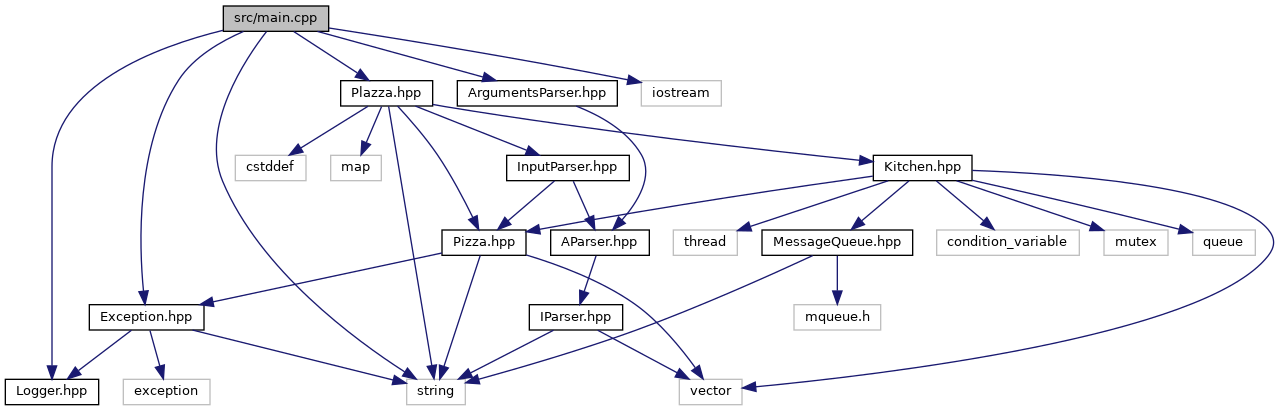
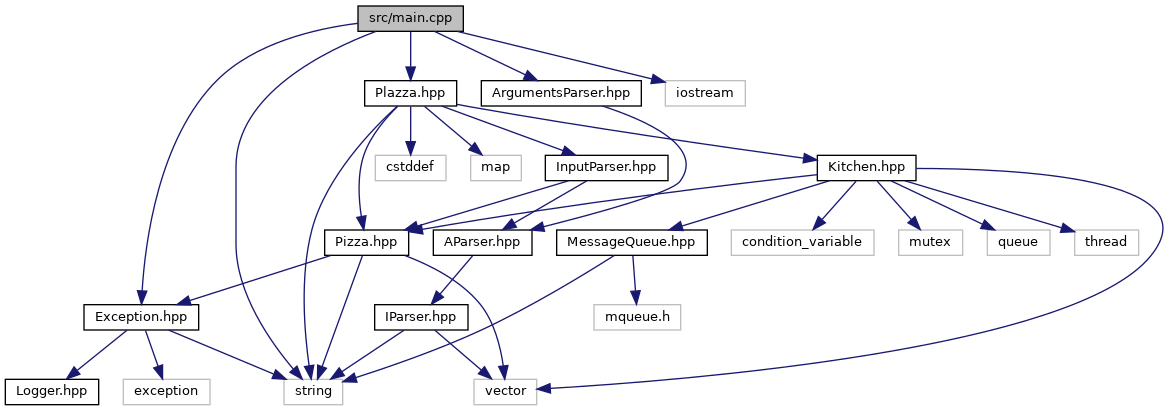
Deploying to gh-pages from @ Cavonstavant/PLAZAAAAAAAAAAAAAAAAAAAAAAA@55cd2547cdbc10f20de0c7a9fd8b12260c175556 🚀

diff --git a/main_8cpp_source.html b/main_8cpp_source.html
@@ -96,26 +96,24 @@ $(document).ready(function(){initNavTree('main_8cpp_source.html',''); initResiza
 <div class="line"><a name="l00007"></a><span class="lineno">    7</span>&#160; </div>
 <div class="line"><a name="l00008"></a><span class="lineno">    8</span>&#160;<span class="preprocessor">#include &quot;<a class="code" href="_arguments_parser_8hpp.html">ArgumentsParser.hpp</a>&quot;</span></div>
 <div class="line"><a name="l00009"></a><span class="lineno">    9</span>&#160;<span class="preprocessor">#include &quot;<a class="code" href="_exception_8hpp.html">Exception.hpp</a>&quot;</span></div>
-<div class="line"><a name="l00010"></a><span class="lineno">   10</span>&#160;<span class="preprocessor">#include &quot;<a class="code" href="_logger_8hpp.html">Logger/Logger.hpp</a>&quot;</span></div>
-<div class="line"><a name="l00011"></a><span class="lineno">   11</span>&#160;<span class="preprocessor">#include &quot;<a class="code" href="_plazza_8hpp.html">Plazza.hpp</a>&quot;</span></div>
-<div class="line"><a name="l00012"></a><span class="lineno">   12</span>&#160;<span class="preprocessor">#include &lt;iostream&gt;</span></div>
-<div class="line"><a name="l00013"></a><span class="lineno">   13</span>&#160;<span class="preprocessor">#include &lt;string&gt;</span></div>
-<div class="line"><a name="l00014"></a><span class="lineno">   14</span>&#160; </div>
-<div class="line"><a name="l00015"></a><span class="lineno"><a class="line" href="main_8cpp.html#a0c99d968a34e803d378692bde2e3f18f">   15</a></span>&#160;<span class="keywordtype">int</span> <a class="code" href="main_8cpp.html#a0c99d968a34e803d378692bde2e3f18f">main</a>(<span class="keywordtype">int</span> ac, <span class="keywordtype">char</span> **av)</div>
-<div class="line"><a name="l00016"></a><span class="lineno">   16</span>&#160;{</div>
-<div class="line"><a name="l00017"></a><span class="lineno">   17</span>&#160;    <a class="code" href="classplazza_1_1_arguments_parser.html">plazza::ArgumentsParser</a> args(ac - 1, av + 1);</div>
-<div class="line"><a name="l00018"></a><span class="lineno">   18</span>&#160; </div>
-<div class="line"><a name="l00019"></a><span class="lineno">   19</span>&#160;    <span class="keywordflow">try</span> {</div>
-<div class="line"><a name="l00020"></a><span class="lineno">   20</span>&#160;        args.<a class="code" href="classplazza_1_1_arguments_parser.html#ab4f7c6395927475327259187040f270d">processArguments</a>();</div>
-<div class="line"><a name="l00021"></a><span class="lineno">   21</span>&#160;    } <span class="keywordflow">catch</span> (<span class="keyword">const</span> <a class="code" href="class_plazza_exception.html">PlazzaException</a> &amp;exc) {</div>
-<div class="line"><a name="l00022"></a><span class="lineno">   22</span>&#160;        std::cerr &lt;&lt; exc.<a class="code" href="class_plazza_exception.html#af42078485825da6b030af687e5990044">what</a>() &lt;&lt; std::endl;</div>
-<div class="line"><a name="l00023"></a><span class="lineno">   23</span>&#160;        <span class="keywordflow">return</span> 84;</div>
-<div class="line"><a name="l00024"></a><span class="lineno">   24</span>&#160;    }</div>
-<div class="line"><a name="l00025"></a><span class="lineno">   25</span>&#160;    <a class="code" href="classplazza_1_1_reception.html">plazza::Reception</a> reception(args.<a class="code" href="classplazza_1_1_arguments_parser.html#a98c1809b8b3fd4d7d732d0fab0b329f0">getCookingTime</a>(), args.<a class="code" href="classplazza_1_1_arguments_parser.html#a526753b1dddd60803ef79ea0b1505dfc">getCookNumber</a>(), args.<a class="code" href="classplazza_1_1_arguments_parser.html#aeca612329e37ab2947f8a29fd8032e21">getRefillTime</a>());</div>
-<div class="line"><a name="l00026"></a><span class="lineno">   26</span>&#160; </div>
-<div class="line"><a name="l00027"></a><span class="lineno">   27</span>&#160;    reception.<a class="code" href="classplazza_1_1_reception.html#a73430319934872441506482fba8cf642">run</a>();</div>
-<div class="line"><a name="l00028"></a><span class="lineno">   28</span>&#160;    <span class="keywordflow">return</span> 0;</div>
-<div class="line"><a name="l00029"></a><span class="lineno">   29</span>&#160;}</div>
+<div class="line"><a name="l00010"></a><span class="lineno">   10</span>&#160;<span class="preprocessor">#include &quot;<a class="code" href="_plazza_8hpp.html">Plazza.hpp</a>&quot;</span></div>
+<div class="line"><a name="l00011"></a><span class="lineno">   11</span>&#160;<span class="preprocessor">#include &lt;iostream&gt;</span></div>
+<div class="line"><a name="l00012"></a><span class="lineno">   12</span>&#160;<span class="preprocessor">#include &lt;string&gt;</span></div>
+<div class="line"><a name="l00013"></a><span class="lineno">   13</span>&#160; </div>
+<div class="line"><a name="l00014"></a><span class="lineno"><a class="line" href="main_8cpp.html#a0c99d968a34e803d378692bde2e3f18f">   14</a></span>&#160;<span class="keywordtype">int</span> <a class="code" href="main_8cpp.html#a0c99d968a34e803d378692bde2e3f18f">main</a>(<span class="keywordtype">int</span> ac, <span class="keywordtype">char</span> **av)</div>
+<div class="line"><a name="l00015"></a><span class="lineno">   15</span>&#160;{</div>
+<div class="line"><a name="l00016"></a><span class="lineno">   16</span>&#160;    <a class="code" href="classplazza_1_1_arguments_parser.html">plazza::ArgumentsParser</a> args(ac - 1, av + 1);</div>
+<div class="line"><a name="l00017"></a><span class="lineno">   17</span>&#160; </div>
+<div class="line"><a name="l00018"></a><span class="lineno">   18</span>&#160;    <span class="keywordflow">try</span> {</div>
+<div class="line"><a name="l00019"></a><span class="lineno">   19</span>&#160;        args.<a class="code" href="classplazza_1_1_arguments_parser.html#ab4f7c6395927475327259187040f270d">processArguments</a>();</div>
+<div class="line"><a name="l00020"></a><span class="lineno">   20</span>&#160;    } <span class="keywordflow">catch</span> (<span class="keyword">const</span> <a class="code" href="class_plazza_exception.html">PlazzaException</a> &amp;exc) {</div>
+<div class="line"><a name="l00021"></a><span class="lineno">   21</span>&#160;        std::cerr &lt;&lt; exc.<a class="code" href="class_plazza_exception.html#af42078485825da6b030af687e5990044">what</a>() &lt;&lt; std::endl;</div>
+<div class="line"><a name="l00022"></a><span class="lineno">   22</span>&#160;        <span class="keywordflow">return</span> 84;</div>
+<div class="line"><a name="l00023"></a><span class="lineno">   23</span>&#160;    }</div>
+<div class="line"><a name="l00024"></a><span class="lineno">   24</span>&#160;    <a class="code" href="classplazza_1_1_reception.html">plazza::Reception</a> reception(args.<a class="code" href="classplazza_1_1_arguments_parser.html#a98c1809b8b3fd4d7d732d0fab0b329f0">getCookingTime</a>(), args.<a class="code" href="classplazza_1_1_arguments_parser.html#a526753b1dddd60803ef79ea0b1505dfc">getCookNumber</a>(), args.<a class="code" href="classplazza_1_1_arguments_parser.html#aeca612329e37ab2947f8a29fd8032e21">getRefillTime</a>());</div>
+<div class="line"><a name="l00025"></a><span class="lineno">   25</span>&#160;    reception.<a class="code" href="classplazza_1_1_reception.html#a73430319934872441506482fba8cf642">run</a>();</div>
+<div class="line"><a name="l00026"></a><span class="lineno">   26</span>&#160;    <span class="keywordflow">return</span> 0;</div>
+<div class="line"><a name="l00027"></a><span class="lineno">   27</span>&#160;}</div>
 </div><!-- fragment --></div><!-- contents -->
 </div><!-- doc-content -->
 <div class="ttc" id="a_plazza_8hpp_html"><div class="ttname"><a href="_plazza_8hpp.html">Plazza.hpp</a></div></div>
@@ -126,11 +124,10 @@ $(document).ready(function(){initNavTree('main_8cpp_source.html',''); initResiza
 <div class="ttc" id="aclassplazza_1_1_arguments_parser_html_a526753b1dddd60803ef79ea0b1505dfc"><div class="ttname"><a href="classplazza_1_1_arguments_parser.html#a526753b1dddd60803ef79ea0b1505dfc">plazza::ArgumentsParser::getCookNumber</a></div><div class="ttdeci">const size_t &amp; getCookNumber(void) const</div><div class="ttdoc">Get the cooking Time for the Plazza.</div><div class="ttdef"><b>Definition:</b> <a href="_arguments_parser_8hpp_source.html#l00035">ArgumentsParser.hpp:35</a></div></div>
 <div class="ttc" id="aclass_plazza_exception_html_af42078485825da6b030af687e5990044"><div class="ttname"><a href="class_plazza_exception.html#af42078485825da6b030af687e5990044">PlazzaException::what</a></div><div class="ttdeci">const char * what() const noexcept override</div><div class="ttdoc">returns the description of the exception</div><div class="ttdef"><b>Definition:</b> <a href="_exception_8cpp_source.html#l00027">Exception.cpp:27</a></div></div>
 <div class="ttc" id="aclassplazza_1_1_reception_html_a73430319934872441506482fba8cf642"><div class="ttname"><a href="classplazza_1_1_reception.html#a73430319934872441506482fba8cf642">plazza::Reception::run</a></div><div class="ttdeci">void run()</div><div class="ttdoc">Main function of the program.</div><div class="ttdef"><b>Definition:</b> <a href="_plazza_8cpp_source.html#l00115">Plazza.cpp:115</a></div></div>
-<div class="ttc" id="amain_8cpp_html_a0c99d968a34e803d378692bde2e3f18f"><div class="ttname"><a href="main_8cpp.html#a0c99d968a34e803d378692bde2e3f18f">main</a></div><div class="ttdeci">int main(int ac, char **av)</div><div class="ttdef"><b>Definition:</b> <a href="main_8cpp_source.html#l00015">main.cpp:15</a></div></div>
+<div class="ttc" id="amain_8cpp_html_a0c99d968a34e803d378692bde2e3f18f"><div class="ttname"><a href="main_8cpp.html#a0c99d968a34e803d378692bde2e3f18f">main</a></div><div class="ttdeci">int main(int ac, char **av)</div><div class="ttdef"><b>Definition:</b> <a href="main_8cpp_source.html#l00014">main.cpp:14</a></div></div>
 <div class="ttc" id="aclassplazza_1_1_arguments_parser_html_ab4f7c6395927475327259187040f270d"><div class="ttname"><a href="classplazza_1_1_arguments_parser.html#ab4f7c6395927475327259187040f270d">plazza::ArgumentsParser::processArguments</a></div><div class="ttdeci">void processArguments()</div><div class="ttdoc">Process the arguments given in the char ** (transfers to the inherited member _arguments) by the cons...</div><div class="ttdef"><b>Definition:</b> <a href="_arguments_parser_8cpp_source.html#l00025">ArgumentsParser.cpp:25</a></div></div>
 <div class="ttc" id="aclassplazza_1_1_arguments_parser_html"><div class="ttname"><a href="classplazza_1_1_arguments_parser.html">plazza::ArgumentsParser</a></div><div class="ttdoc">ArgumentsParser class define functions for parsing received arguments.</div><div class="ttdef"><b>Definition:</b> <a href="_arguments_parser_8hpp_source.html#l00017">ArgumentsParser.hpp:17</a></div></div>
 <div class="ttc" id="aclassplazza_1_1_arguments_parser_html_a98c1809b8b3fd4d7d732d0fab0b329f0"><div class="ttname"><a href="classplazza_1_1_arguments_parser.html#a98c1809b8b3fd4d7d732d0fab0b329f0">plazza::ArgumentsParser::getCookingTime</a></div><div class="ttdeci">const float &amp; getCookingTime(void) const</div><div class="ttdoc">Get the cooking Time for the Plazza.</div><div class="ttdef"><b>Definition:</b> <a href="_arguments_parser_8hpp_source.html#l00029">ArgumentsParser.hpp:29</a></div></div>
-<div class="ttc" id="a_logger_8hpp_html"><div class="ttname"><a href="_logger_8hpp.html">Logger.hpp</a></div></div>
 <div class="ttc" id="a_arguments_parser_8hpp_html"><div class="ttname"><a href="_arguments_parser_8hpp.html">ArgumentsParser.hpp</a></div></div>
 <!-- start footer part -->
 <div id="nav-path" class="navpath"><!-- id is needed for treeview function! -->

diff --git a/main_8cpp.html b/main_8cpp.html
@@ -91,7 +91,6 @@ $(document).ready(function(){initNavTree('main_8cpp.html',''); initResizable(); 
 <div class="contents">
 <div class="textblock"><code>#include &quot;<a class="el" href="_arguments_parser_8hpp_source.html">ArgumentsParser.hpp</a>&quot;</code><br />
 <code>#include &quot;<a class="el" href="_exception_8hpp_source.html">Exception.hpp</a>&quot;</code><br />
-<code>#include &quot;<a class="el" href="_logger_8hpp_source.html">Logger/Logger.hpp</a>&quot;</code><br />
 <code>#include &quot;<a class="el" href="_plazza_8hpp_source.html">Plazza.hpp</a>&quot;</code><br />
 <code>#include &lt;iostream&gt;</code><br />
 <code>#include &lt;string&gt;</code><br />
@@ -100,28 +99,28 @@ Include dependency graph for main.cpp:</div>
 <div class="dyncontent">
 <div class="center"><img src="main_8cpp__incl.png" border="0" usemap="#src_2main_8cpp" alt=""/></div>
 <map name="src_2main_8cpp" id="src_2main_8cpp">
-<area shape="rect" title=" " alt="" coords="223,5,329,32"/>
-<area shape="rect" href="_arguments_parser_8hpp.html" title=" " alt="" coords="457,80,617,107"/>
-<area shape="rect" title=" " alt="" coords="407,379,465,405"/>
-<area shape="rect" href="_exception_8hpp.html" title=" " alt="" coords="89,304,204,331"/>
+<area shape="rect" title=" " alt="" coords="358,5,463,32"/>
+<area shape="rect" href="_arguments_parser_8hpp.html" title=" " alt="" coords="481,80,641,107"/>
+<area shape="rect" title=" " alt="" coords="284,379,343,405"/>
+<area shape="rect" href="_exception_8hpp.html" title=" " alt="" coords="84,304,199,331"/>
+<area shape="rect" href="_plazza_8hpp.html" title=" " alt="" coords="365,80,457,107"/>
+<area shape="rect" title=" " alt="" coords="665,80,745,107"/>
+<area shape="rect" href="_a_parser_8hpp.html" title=" " alt="" coords="433,229,532,256"/>
+<area shape="rect" href="_i_parser_8hpp.html" title=" " alt="" coords="375,304,468,331"/>
+<area shape="rect" title=" " alt="" coords="474,379,537,405"/>
 <area shape="rect" href="_logger_8hpp.html" title=" " alt="" coords="5,379,99,405"/>
-<area shape="rect" href="_plazza_8hpp.html" title=" " alt="" coords="341,80,433,107"/>
-<area shape="rect" title=" " alt="" coords="641,80,721,107"/>
-<area shape="rect" href="_a_parser_8hpp.html" title=" " alt="" coords="551,229,649,256"/>
-<area shape="rect" href="_i_parser_8hpp.html" title=" " alt="" coords="529,304,623,331"/>
-<area shape="rect" title=" " alt="" coords="679,379,742,405"/>
 <area shape="rect" title=" " alt="" coords="123,379,210,405"/>
-<area shape="rect" href="_input_parser_8hpp.html" title=" " alt="" coords="507,155,629,181"/>
-<area shape="rect" href="_pizza_8hpp.html" title=" " alt="" coords="442,229,526,256"/>
-<area shape="rect" href="_kitchen_8hpp.html" title=" " alt="" coords="873,155,972,181"/>
-<area shape="rect" title=" " alt="" coords="235,155,306,181"/>
-<area shape="rect" title=" " alt="" coords="331,155,381,181"/>
-<area shape="rect" href="_message_queue_8hpp.html" title=" " alt="" coords="762,229,913,256"/>
-<area shape="rect" title=" " alt="" coords="937,229,1079,256"/>
-<area shape="rect" title=" " alt="" coords="1104,229,1168,256"/>
-<area shape="rect" title=" " alt="" coords="1193,229,1255,256"/>
-<area shape="rect" title=" " alt="" coords="673,229,737,256"/>
-<area shape="rect" title=" " alt="" coords="794,304,881,331"/>
+<area shape="rect" href="_input_parser_8hpp.html" title=" " alt="" coords="545,155,668,181"/>
+<area shape="rect" href="_pizza_8hpp.html" title=" " alt="" coords="325,229,409,256"/>
+<area shape="rect" href="_kitchen_8hpp.html" title=" " alt="" coords="817,155,916,181"/>
+<area shape="rect" title=" " alt="" coords="375,155,446,181"/>
+<area shape="rect" title=" " alt="" coords="471,155,521,181"/>
+<area shape="rect" href="_message_queue_8hpp.html" title=" " alt="" coords="557,229,707,256"/>
+<area shape="rect" title=" " alt="" coords="731,229,874,256"/>
+<area shape="rect" title=" " alt="" coords="899,229,963,256"/>
+<area shape="rect" title=" " alt="" coords="987,229,1050,256"/>
+<area shape="rect" title=" " alt="" coords="1075,229,1139,256"/>
+<area shape="rect" title=" " alt="" coords="594,304,681,331"/>
 </map>
 </div>
 </div>
@@ -159,21 +158,20 @@ Functions</h2></td></tr>
       </table>
 </div><div class="memdoc">
 
-<p class="definition">Definition at line <a class="el" href="main_8cpp_source.html#l00015">15</a> of file <a class="el" href="main_8cpp_source.html">main.cpp</a>.</p>
-<div class="fragment"><div class="line"><a name="l00016"></a><span class="lineno">   16</span>&#160;{</div>
-<div class="line"><a name="l00017"></a><span class="lineno">   17</span>&#160;    <a class="code" href="classplazza_1_1_arguments_parser.html">plazza::ArgumentsParser</a> args(ac - 1, av + 1);</div>
-<div class="line"><a name="l00018"></a><span class="lineno">   18</span>&#160; </div>
-<div class="line"><a name="l00019"></a><span class="lineno">   19</span>&#160;    <span class="keywordflow">try</span> {</div>
-<div class="line"><a name="l00020"></a><span class="lineno">   20</span>&#160;        args.processArguments();</div>
-<div class="line"><a name="l00021"></a><span class="lineno">   21</span>&#160;    } <span class="keywordflow">catch</span> (<span class="keyword">const</span> <a class="code" href="class_plazza_exception.html">PlazzaException</a> &amp;exc) {</div>
-<div class="line"><a name="l00022"></a><span class="lineno">   22</span>&#160;        std::cerr &lt;&lt; exc.<a class="code" href="class_plazza_exception.html#af42078485825da6b030af687e5990044">what</a>() &lt;&lt; std::endl;</div>
-<div class="line"><a name="l00023"></a><span class="lineno">   23</span>&#160;        <span class="keywordflow">return</span> 84;</div>
-<div class="line"><a name="l00024"></a><span class="lineno">   24</span>&#160;    }</div>
-<div class="line"><a name="l00025"></a><span class="lineno">   25</span>&#160;    <a class="code" href="classplazza_1_1_reception.html">plazza::Reception</a> reception(args.getCookingTime(), args.getCookNumber(), args.getRefillTime());</div>
-<div class="line"><a name="l00026"></a><span class="lineno">   26</span>&#160; </div>
-<div class="line"><a name="l00027"></a><span class="lineno">   27</span>&#160;    reception.run();</div>
-<div class="line"><a name="l00028"></a><span class="lineno">   28</span>&#160;    <span class="keywordflow">return</span> 0;</div>
-<div class="line"><a name="l00029"></a><span class="lineno">   29</span>&#160;}</div>
+<p class="definition">Definition at line <a class="el" href="main_8cpp_source.html#l00014">14</a> of file <a class="el" href="main_8cpp_source.html">main.cpp</a>.</p>
+<div class="fragment"><div class="line"><a name="l00015"></a><span class="lineno">   15</span>&#160;{</div>
+<div class="line"><a name="l00016"></a><span class="lineno">   16</span>&#160;    <a class="code" href="classplazza_1_1_arguments_parser.html">plazza::ArgumentsParser</a> args(ac - 1, av + 1);</div>
+<div class="line"><a name="l00017"></a><span class="lineno">   17</span>&#160; </div>
+<div class="line"><a name="l00018"></a><span class="lineno">   18</span>&#160;    <span class="keywordflow">try</span> {</div>
+<div class="line"><a name="l00019"></a><span class="lineno">   19</span>&#160;        args.processArguments();</div>
+<div class="line"><a name="l00020"></a><span class="lineno">   20</span>&#160;    } <span class="keywordflow">catch</span> (<span class="keyword">const</span> <a class="code" href="class_plazza_exception.html">PlazzaException</a> &amp;exc) {</div>
+<div class="line"><a name="l00021"></a><span class="lineno">   21</span>&#160;        std::cerr &lt;&lt; exc.<a class="code" href="class_plazza_exception.html#af42078485825da6b030af687e5990044">what</a>() &lt;&lt; std::endl;</div>
+<div class="line"><a name="l00022"></a><span class="lineno">   22</span>&#160;        <span class="keywordflow">return</span> 84;</div>
+<div class="line"><a name="l00023"></a><span class="lineno">   23</span>&#160;    }</div>
+<div class="line"><a name="l00024"></a><span class="lineno">   24</span>&#160;    <a class="code" href="classplazza_1_1_reception.html">plazza::Reception</a> reception(args.getCookingTime(), args.getCookNumber(), args.getRefillTime());</div>
+<div class="line"><a name="l00025"></a><span class="lineno">   25</span>&#160;    reception.run();</div>
+<div class="line"><a name="l00026"></a><span class="lineno">   26</span>&#160;    <span class="keywordflow">return</span> 0;</div>
+<div class="line"><a name="l00027"></a><span class="lineno">   27</span>&#160;}</div>
 </div><!-- fragment -->
 </div>
 </div>

diff --git a/_logger_8hpp.html b/_logger_8hpp.html
@@ -94,23 +94,23 @@ This graph shows which files directly or indirectly include this file:</div>
 <div class="dyncontent">
 <div class="center"><img src="_logger_8hpp__dep__incl.png" border="0" usemap="#src_2_logger_2_logger_8hppdep" alt=""/></div>
 <map name="src_2_logger_2_logger_8hppdep" id="src_2_logger_2_logger_8hppdep">
-<area shape="rect" title=" " alt="" coords="998,5,1162,32"/>
-<area shape="rect" href="_exception_8hpp.html" title=" " alt="" coords="661,80,846,107"/>
-<area shape="rect" href="main_8cpp.html" title=" " alt="" coords="994,423,1100,449"/>
-<area shape="rect" href="_exception_8cpp.html" title=" " alt="" coords="791,162,975,189"/>
-<area shape="rect" href="_logger_8cpp.html" title=" " alt="" coords="999,162,1162,189"/>
-<area shape="rect" href="_message_queue_8cpp.html" title=" " alt="" coords="1186,155,1393,196"/>
-<area shape="rect" href="_arguments_parser_8cpp.html" title=" " alt="" coords="311,155,514,196"/>
-<area shape="rect" href="_input_parser_8cpp.html" title=" " alt="" coords="249,333,445,375"/>
-<area shape="rect" href="_pizza_8hpp.html" title=" " alt="" coords="538,162,716,189"/>
-<area shape="rect" href="_plazza_8cpp.html" title=" " alt="" coords="708,423,856,449"/>
-<area shape="rect" href="_cook_8hpp.html" title=" " alt="" coords="73,251,250,278"/>
-<area shape="rect" href="_kitchen_8cpp.html" title=" " alt="" coords="470,341,678,367"/>
-<area shape="rect" href="_kitchen_8hpp.html" title=" " alt="" coords="749,251,958,278"/>
-<area shape="rect" href="_plazza_8hpp.html" title=" " alt="" coords="819,341,968,367"/>
-<area shape="rect" href="_input_parser_8hpp.html" title=" " alt="" coords="529,244,725,285"/>
-<area shape="rect" href="_pizza_8cpp.html" title=" " alt="" coords="275,251,454,278"/>
-<area shape="rect" href="_cook_8cpp.html" title=" " alt="" coords="48,341,224,367"/>
+<area shape="rect" title=" " alt="" coords="1385,5,1549,32"/>
+<area shape="rect" href="_exception_8hpp.html" title=" " alt="" coords="1096,80,1281,107"/>
+<area shape="rect" href="_exception_8cpp.html" title=" " alt="" coords="1314,162,1498,189"/>
+<area shape="rect" href="_logger_8cpp.html" title=" " alt="" coords="1522,162,1684,189"/>
+<area shape="rect" href="_message_queue_8cpp.html" title=" " alt="" coords="1709,155,1916,196"/>
+<area shape="rect" href="_arguments_parser_8cpp.html" title=" " alt="" coords="1087,155,1290,196"/>
+<area shape="rect" href="_input_parser_8cpp.html" title=" " alt="" coords="24,333,220,375"/>
+<area shape="rect" href="_pizza_8hpp.html" title=" " alt="" coords="564,162,743,189"/>
+<area shape="rect" href="_plazza_8cpp.html" title=" " alt="" coords="493,423,641,449"/>
+<area shape="rect" href="main_8cpp.html" title=" " alt="" coords="100,423,205,449"/>
+<area shape="rect" href="_cook_8hpp.html" title=" " alt="" coords="834,251,1012,278"/>
+<area shape="rect" href="_kitchen_8cpp.html" title=" " alt="" coords="604,341,812,367"/>
+<area shape="rect" href="_kitchen_8hpp.html" title=" " alt="" coords="549,251,758,278"/>
+<area shape="rect" href="_plazza_8hpp.html" title=" " alt="" coords="244,341,394,367"/>
+<area shape="rect" href="_input_parser_8hpp.html" title=" " alt="" coords="74,244,270,285"/>
+<area shape="rect" href="_pizza_8cpp.html" title=" " alt="" coords="346,251,524,278"/>
+<area shape="rect" href="_cook_8cpp.html" title=" " alt="" coords="836,341,1012,367"/>
 </map>
 </div>
 </div>

diff --git a/_pizza_logger_8cpp_source.html b/_pizza_logger_8cpp_source.html
@@ -122,10 +122,10 @@ $(document).ready(function(){initNavTree('_pizza_logger_8cpp_source.html',''); i
 <div class="line"><a name="l00033"></a><span class="lineno">   33</span>&#160;{</div>
 <div class="line"><a name="l00034"></a><span class="lineno">   34</span>&#160;    std::ofstream pizzaOf;</div>
 <div class="line"><a name="l00035"></a><span class="lineno">   35</span>&#160;    std::stringstream ss;</div>
-<div class="line"><a name="l00036"></a><span class="lineno">   36</span>&#160;    std::cout &lt;&lt; pizza &lt;&lt; <span class="stringliteral">&quot;: &quot;</span> &lt;&lt; <a class="code" href="_pizza_logger_8cpp.html#aa5c1295c0835d32cc58bba079ea62ce3">getActionString</a>(action) &lt;&lt; std::endl;</div>
+<div class="line"><a name="l00036"></a><span class="lineno">   36</span>&#160;    std::cout &lt;&lt; pizza &lt;&lt; <span class="stringliteral">&quot;\tStatus: &quot;</span> &lt;&lt; <a class="code" href="_pizza_logger_8cpp.html#aa5c1295c0835d32cc58bba079ea62ce3">getActionString</a>(action) &lt;&lt; std::endl;</div>
 <div class="line"><a name="l00037"></a><span class="lineno">   37</span>&#160; </div>
 <div class="line"><a name="l00038"></a><span class="lineno">   38</span>&#160;    <span class="keywordflow">try</span> {</div>
-<div class="line"><a name="l00039"></a><span class="lineno">   39</span>&#160;        ss &lt;&lt; pizza &lt;&lt; <span class="stringliteral">&quot;: &quot;</span> &lt;&lt; <a class="code" href="_pizza_logger_8cpp.html#aa5c1295c0835d32cc58bba079ea62ce3">getActionString</a>(action) &lt;&lt; std::endl;</div>
+<div class="line"><a name="l00039"></a><span class="lineno">   39</span>&#160;        ss &lt;&lt; pizza &lt;&lt; <span class="stringliteral">&quot;\tStatus: &quot;</span> &lt;&lt; <a class="code" href="_pizza_logger_8cpp.html#aa5c1295c0835d32cc58bba079ea62ce3">getActionString</a>(action) &lt;&lt; std::endl;</div>
 <div class="line"><a name="l00040"></a><span class="lineno">   40</span>&#160;        pizzaOf.open(<span class="stringliteral">&quot;OrderBacklog.log&quot;</span>, std::ios::app);</div>
 <div class="line"><a name="l00041"></a><span class="lineno">   41</span>&#160;        pizzaOf &lt;&lt; ss.str();</div>
 <div class="line"><a name="l00042"></a><span class="lineno">   42</span>&#160;        pizzaOf.close();</div>

diff --git a/structplazza_1_1_pizza_logger.html b/structplazza_1_1_pizza_logger.html
@@ -333,10 +333,10 @@ Static Public Member Functions</h2></td></tr>
 <div class="fragment"><div class="line"><a name="l00033"></a><span class="lineno">   33</span>&#160;{</div>
 <div class="line"><a name="l00034"></a><span class="lineno">   34</span>&#160;    std::ofstream pizzaOf;</div>
 <div class="line"><a name="l00035"></a><span class="lineno">   35</span>&#160;    std::stringstream ss;</div>
-<div class="line"><a name="l00036"></a><span class="lineno">   36</span>&#160;    std::cout &lt;&lt; pizza &lt;&lt; <span class="stringliteral">&quot;: &quot;</span> &lt;&lt; <a class="code" href="_pizza_logger_8cpp.html#aa5c1295c0835d32cc58bba079ea62ce3">getActionString</a>(action) &lt;&lt; std::endl;</div>
+<div class="line"><a name="l00036"></a><span class="lineno">   36</span>&#160;    std::cout &lt;&lt; pizza &lt;&lt; <span class="stringliteral">&quot;\tStatus: &quot;</span> &lt;&lt; <a class="code" href="_pizza_logger_8cpp.html#aa5c1295c0835d32cc58bba079ea62ce3">getActionString</a>(action) &lt;&lt; std::endl;</div>
 <div class="line"><a name="l00037"></a><span class="lineno">   37</span>&#160; </div>
 <div class="line"><a name="l00038"></a><span class="lineno">   38</span>&#160;    <span class="keywordflow">try</span> {</div>
-<div class="line"><a name="l00039"></a><span class="lineno">   39</span>&#160;        ss &lt;&lt; pizza &lt;&lt; <span class="stringliteral">&quot;: &quot;</span> &lt;&lt; <a class="code" href="_pizza_logger_8cpp.html#aa5c1295c0835d32cc58bba079ea62ce3">getActionString</a>(action) &lt;&lt; std::endl;</div>
+<div class="line"><a name="l00039"></a><span class="lineno">   39</span>&#160;        ss &lt;&lt; pizza &lt;&lt; <span class="stringliteral">&quot;\tStatus: &quot;</span> &lt;&lt; <a class="code" href="_pizza_logger_8cpp.html#aa5c1295c0835d32cc58bba079ea62ce3">getActionString</a>(action) &lt;&lt; std::endl;</div>
 <div class="line"><a name="l00040"></a><span class="lineno">   40</span>&#160;        pizzaOf.open(<span class="stringliteral">&quot;OrderBacklog.log&quot;</span>, std::ios::app);</div>
 <div class="line"><a name="l00041"></a><span class="lineno">   41</span>&#160;        pizzaOf &lt;&lt; ss.str();</div>
 <div class="line"><a name="l00042"></a><span class="lineno">   42</span>&#160;        pizzaOf.close();</div>
